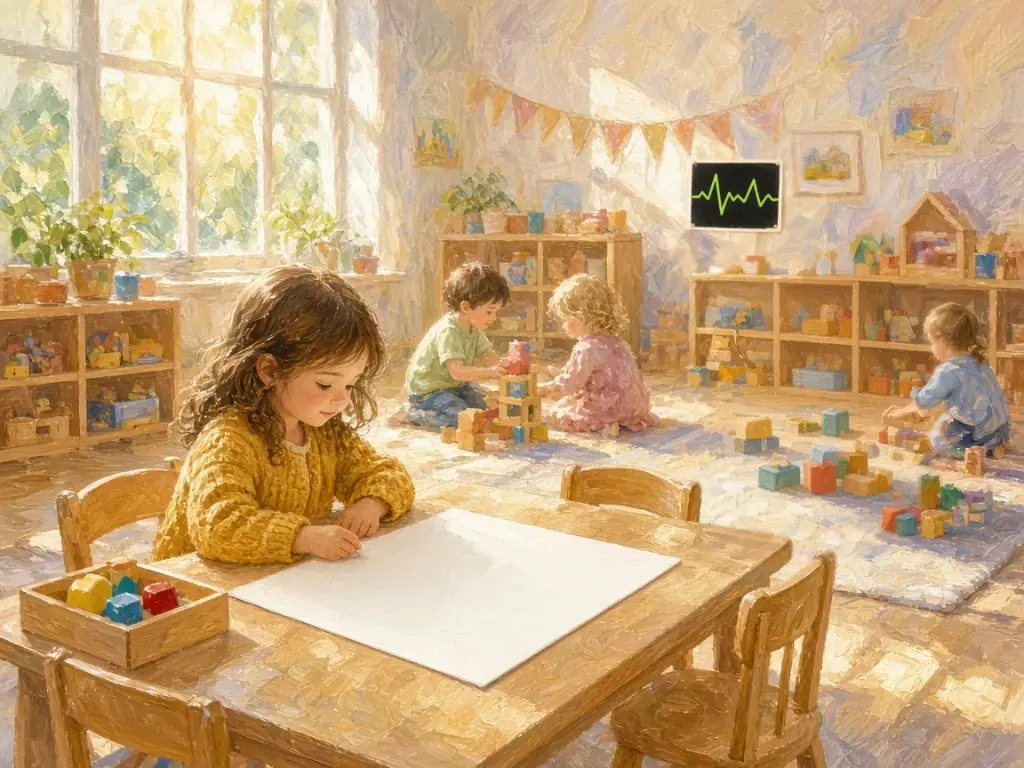
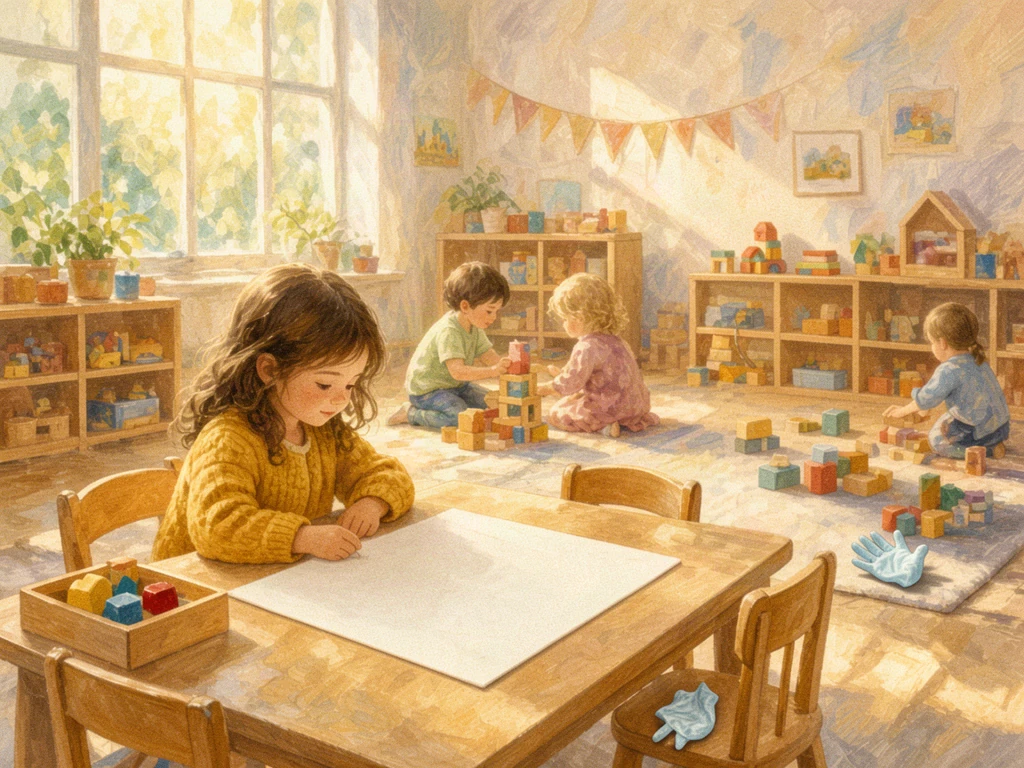
beta3: fix data braces and quote; voice lines + subtler objects s02/s09

diff --git a/beta/index.html b/beta/index.html
@@ -28,6 +28,9 @@ html,body{height:100%;overflow:hidden;background:#07060b;color:#f2ecdd;
 .hs.gone{pointer-events:none}
 #bar{flex:0 0 auto;padding:8px 14px 12px;min-height:74px;display:flex;flex-direction:column;
   align-items:center;justify-content:center;gap:6px;text-align:center}
+#voice{font-size:12.5px;letter-spacing:.01em;color:#9c8cad;font-style:italic;max-width:600px;
+  opacity:0;transition:opacity .8s;margin-bottom:2px}
+#voice.on{opacity:.9}
 #whisper{font-size:14px;line-height:1.35;font-style:italic;color:#cfc3dd;max-width:640px;
   opacity:0;transition:opacity .45s}
 #whisper.on{opacity:1}
@@ -72,6 +75,7 @@ h1 small{display:block;font-size:.42em;color:#a99bbd;letter-spacing:.22em;text-t
     </div>
   </div>
   <div id="bar">
+    <div id="voice"></div>
     <div id="whisper"></div>
     <button id="hintBtn"></button>
   </div>
@@ -98,42 +102,52 @@ h1 small{display:block;font-size:.42em;color:#a99bbd;letter-spacing:.22em;text-t
 
 const D={stages:[
  {img:'assets/s01.webp',t:{sk:'Kolíska',en:'The Cradle'},
+  o:{sk:'Ticho. Len prístroje a dážď za oknom.',en:'Quiet. Only the machines and the rain outside.'},
   in:{sk:'Niekto spieva. Niečo mäkké ma stráži z police.',en:'Someone is singing. Something soft is guarding me from the shelf.'},
   out:{sk:'Mama spievala, kým som nezaspala. Môj macko ma strážil z police.',en:'Mom sang until I fell asleep. My teddy watched over me from the shelf.'},
   h:{x:89.5,y:22,r:8,n:{sk:'O jedno svetlo na oblohe navyše',en:'One light too many in the sky'},w:{sk:'Mesiac aj slnko naraz. Sen si nedrží pravidlá.',en:'Moon and sun at once. A dream does not keep the rules.'}}},
  {img:'assets/s02.webp',t:{sk:'Škôlka',en:'Kindergarten'},
+  o:{sk:'…dýcha sama. To je dobrý znak.',en:'…she is breathing on her own. That is a good sign.'},
   in:{sk:'Svet bol prázdny papier a ja som chcela všetky farby.',en:'The world was a blank sheet and I wanted every colour.'},
   out:{sk:'Do každého obrázka som kreslila slnko. Aj do tých nočných.',en:'I drew a sun into every picture. Even the night ones.'},
-  h:{x:71.8,y:25.4,r:7,n:{sk:'Monitor s tepovou krivkou',en:'A monitor with a heartbeat line'},w:{sk:'V škôlke nepatrí pípanie z izby 214.',en:'Room 214 beeping has no place in a kindergarten.'}}},
+  h:{x:66.5,y:92.5,r:4.5,n:{sk:'Jednorazová rukavica',en:'A disposable glove'},w:{sk:'V škôlke sa nechávajú rukavice na hranie. Táto prišla z izby 214.',en:'In a kindergarten you leave the play gloves behind. This one came from room 214.'}}},
  {img:'assets/s03.webp',t:{sk:'Prvý deň v škole',en:'First Day of School'},
+  o:{sk:'Sestrička: „Hovorte na ňu. Počuje vás.“',en:'Nurse: “Talk to her. She can hear you.”'},
   in:{sk:'Mama ma pri dverách pustila za ruku. Bola som taká malá.',en:'Mum let go of my hand at the door. I was so small.'},
   out:{sk:'Zavesila som tašku na háčik a zostala. Bola som statočná.',en:'I hung my bag on the hook and stayed. I was brave.'},
   h:{x:60.5,y:90,r:7.5,n:{sk:'Plastové nazúvačky',en:'Plastic clogs'},w:{sk:'Medzi koženými topánkami jedno dieťa z inej doby.',en:'Among the leather shoes, one child from another time.'}}},
  {img:'assets/s04.webp',t:{sk:'Dospievanie',en:'Growing Up'},
+  o:{sk:'Adam neodchádza z izby ani na kávu.',en:'Adam has not left the room, not even for coffee.'},
   in:{sk:'Niektoré noci som si zapisovala, čo som nevedela povedať nahlas.',en:'Some nights I wrote down what I could not say aloud.'},
   out:{sk:'Moje tajomstvá mali malý zámok. Moje srdce nie.',en:'My secrets had a small lock. My heart did not.'},
   h:{x:33,y:75,r:13,n:{sk:'Cudzie kovové zábradlie',en:'The wrong metal rail'},w:{sk:'Jej posteľ bola vždy teplá. Toto je iná posteľ.',en:'Her bed was always warm. This is a different bed.'}}},
  {img:'assets/s05.webp',t:{sk:'Prvá láska',en:'First Love'},
+  o:{sk:'…mení sa jej pulz. Zavolajte rodinu.',en:'…her pulse is changing. Call the family.'},
   in:{sk:'Chodba bola dlhá a on sa tváril, že ide okolo. V ruke zložený papierik.',en:'The corridor was long and he pretended to walk past. A folded note in his hand.'},
   out:{sk:'Napísal, čo sa nikdy neodvážil povedať nahlas. Ten list som si nechala dvadsať rokov.',en:'He wrote what he never dared to say aloud. I kept that letter for twenty years.'},
   h:{x:15,y:82.5,r:5,n:{sk:'Nemocničný náramok',en:'A hospital wristband'},w:{sk:'Leží pri školskej lavici. Niekto ho stratil na ceste z izby 214.',en:'It lies by a school bench. Someone lost it on the way out of room 214.'}}},
- {img:'',t:{sk:'Odchod z domu',en:'Leaving Home'},
+ {img:'assets/s06.webp',t:{sk:'Odchod z domu',en:'Leaving Home'},
+  o:{sk:'Ema zaspala na dvoch stoličkách pri dverách.',en:'Ema fell asleep on two chairs by the door.'},
   in:{sk:'Štyri prázdne steny. A dvere, ktoré odomykám len ja.',en:'Four empty walls. And a door only I unlock.'},
   out:{sk:'Prvý kľúč, ktorý bol len môj. Bála som sa a tešila zároveň.',en:'The first key that was only mine. I was scared and glad at once.'},
   h:{x:53,y:16,r:11,n:{sk:'Studené svetlo zhora',en:'Cold light from above'},w:{sk:'Na dom je to svetlo príliš nemocničné.',en:'That light is far too hospital-cold for a home.'}}},
  {img:'assets/s07.webp',t:{sk:'Stretnutie s Adamom',en:'Meeting Adam'},
+  o:{sk:'…päť dní. Nikto nič nehovorí.',en:'…five days. Nobody says anything.'},
   in:{sk:'Daždivý utorok. Kaviareň. Cudzinec s láskavými očami.',en:'A rainy Tuesday. A café. A stranger with kind eyes.'},
   out:{sk:'Vylial mi kávu a kúpil mi novú. Rozprávali sme sa, až kým nezatvorili.',en:'He spilled my coffee and bought me another. We talked until they closed.'},
   h:{x:14.5,y:80,r:7.5,n:{sk:'Predlžovačka',en:'Power strip'},w:{sk:'V kaviarni, kde sa káva nalieva ručne.',en:'In a café where coffee is poured by hand.'}}},
  {img:'assets/s08.webp',t:{sk:'Svadba',en:'The Wedding'},
+  o:{sk:'Adam jej číta listy, ktoré jej kedysi písal.',en:'Adam reads her the letters he once wrote.'},
   in:{sk:'Všetci, ktorých som ľúbila, v jednej záhrade.',en:'Everyone I loved, in one garden.'},
   out:{sk:'„Navždy,“ povedal. Verila som mu. Stále verím.',en:'“Forever,” he said. I believed him. I still do.'},
   h:{x:26.5,y:59,r:12,n:{sk:'Niekto v modrom',en:'Someone in blue'},w:{sk:'Prišla z izby 214. Ako hosť.',en:'She came from room 214. As a guest.'}}},
  {img:'assets/s09.webp',t:{sk:'Ema a Tomi',en:'Ema and Tom'},
+  o:{sk:'Lekár: „Dnes prvýkrát stlačila mi ruku.“',en:'Doctor: “Today she squeezed my hand for the first time.”'},
   in:{sk:'Dva malé hlásky. Lepkavé ruky. Domov.',en:'Two small voices. Sticky hands. Home.'},
   out:{sk:'Ema nás nakreslila, ako sa držíme za ruky. „Aby sa nikto nestratil,“ povedala.',en:'Ema drew us holding hands. “So nobody gets lost,” she said.'},
-  h:{x:89,y:21,r:12,n:{sk:'Televízor na stene',en:'A television on the wall'},w:{sk:'Dom, kde sa večer rozprávalo, nemá mať čo mlčať.',en:'A home where evenings were for talking has no use for this.'}}},
+  h:{x:57.8,y:90.5,r:4.5,n:{sk:'Blister s liekmi',en:'A blister pack of pills'},w:{sk:'Pri detských kresbách nechal niekto lieky z izby 214.',en:'Someone left the pills from room 214 beside the drawings of the children.'}}},
  {img:'assets/s10.webp',t:{sk:'Dážď',en:'The Rain'},
+  o:{sk:'„…Mami? Prosím, zobuď sa.“',en:'“…Mom? Please wake up.”'},
   in:{sk:'Len trochu dažďa. Skoro doma.',en:'Only a little rain. Almost home.'},
   out:{sk:'Svetlá. Zvuk, akoby sa trhalo celé nebo. A potom—',en:'Lights. A sound like the sky tearing. And then—'},
   h:{x:71,y:57,r:9,n:{sk:'Nemocničná posteľ',en:'A hospital bed'},w:{sk:'Na ulici stojí niečo, čo patrí do izby 214.',en:'Something that belongs to room 214 is standing in the street.'}}},
@@ -222,6 +236,8 @@ function buildStage(i){
   d.style.left=s.h.x+'%';d.style.top=s.h.y+'%';d.style.width=(s.h.r*2)+'%';
   spots.appendChild(d);
   label();layout();
+  const vo=$('#voice');
+  vo.textContent=(s.o&&s.o[L])||'';vo.classList.toggle('on',!!(s.o&&s.o[L]));
   whisper(s.in[L]);
   $('#hintBtn').textContent=t('hint');
   $('#hintBtn').classList.add('on');
